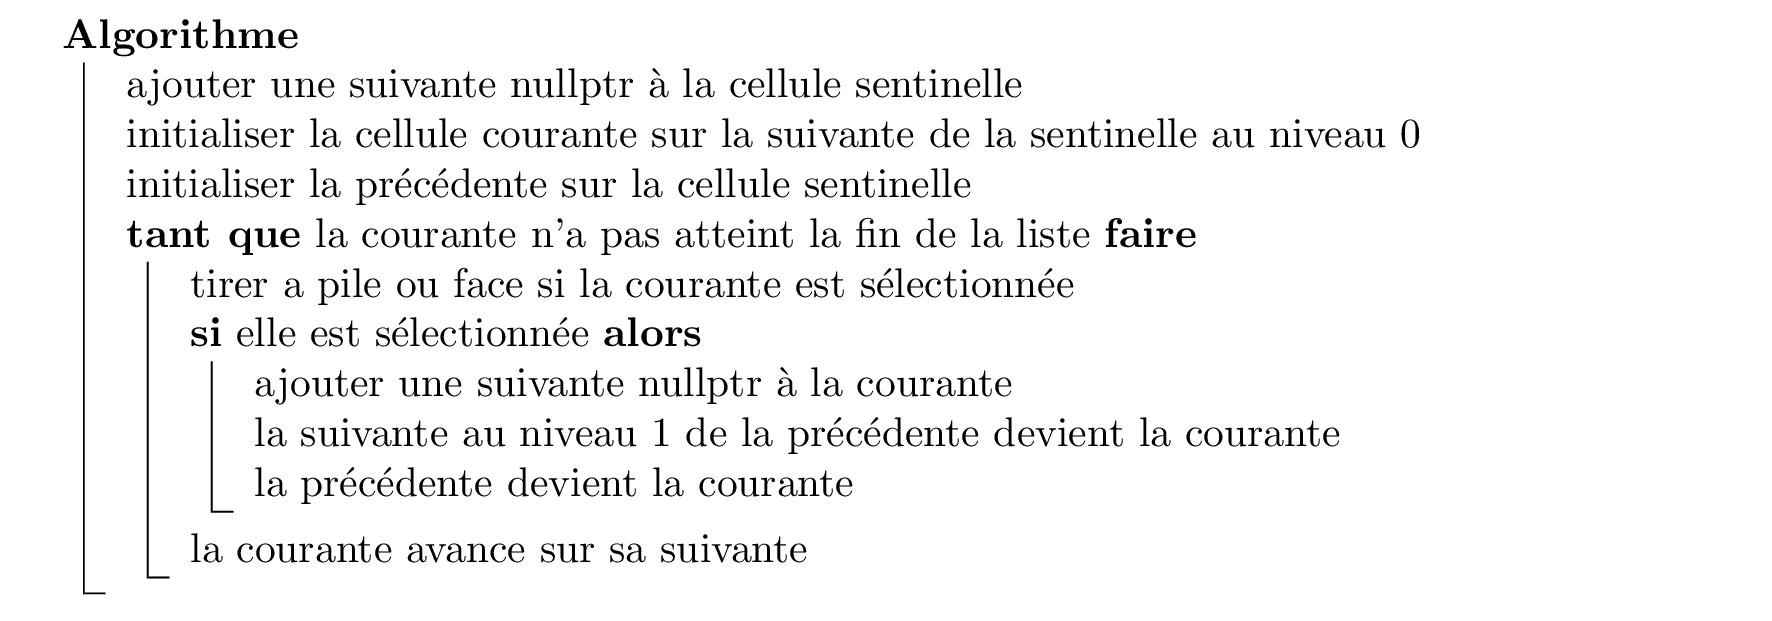
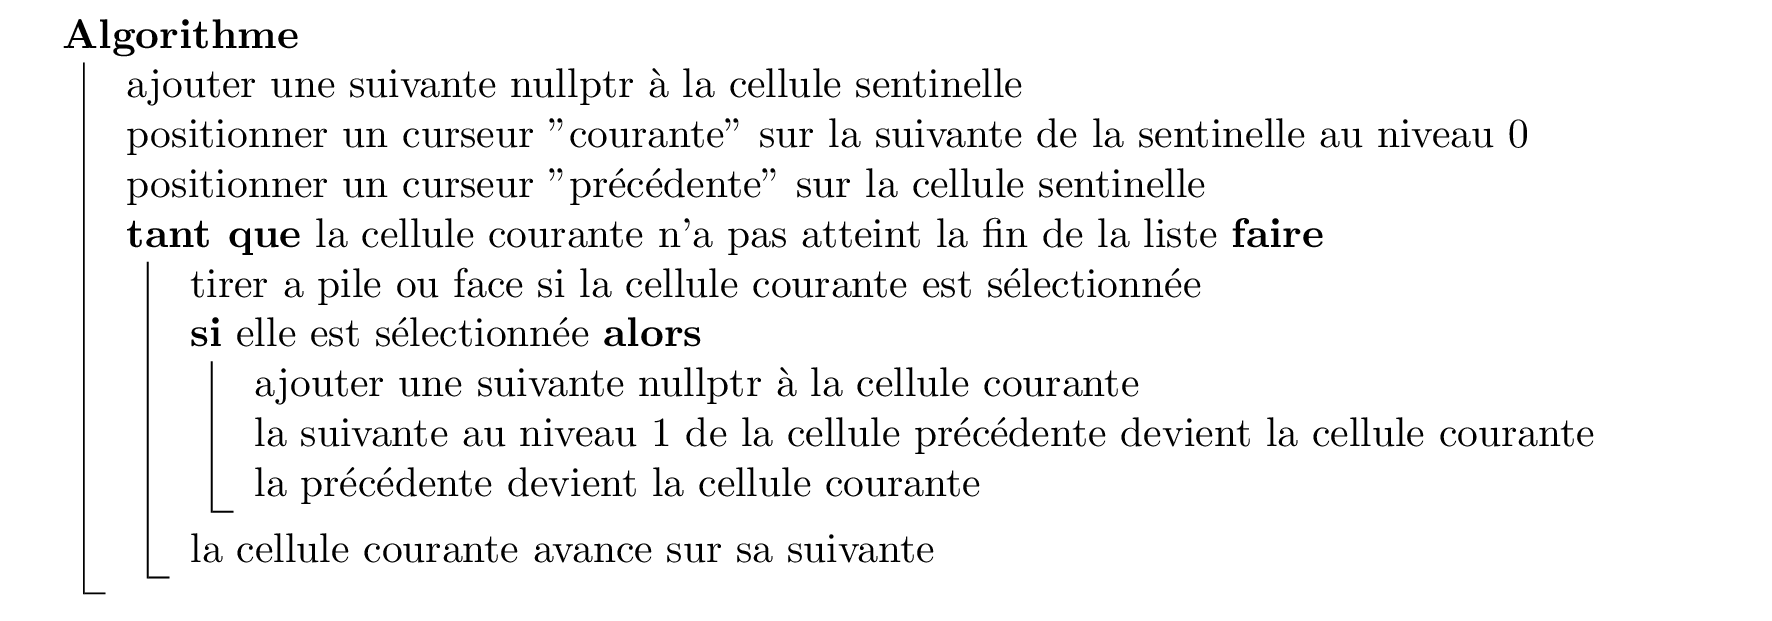
clarified level addition algo

diff --git a/images/algo_ajout_niveau.tex b/images/algo_ajout_niveau.tex
@@ -7,16 +7,16 @@
 
   \Algorithme {
     ajouter une suivante nullptr à la cellule sentinelle \;
-    initialiser la cellule courante sur la suivante de la sentinelle au niveau 0 \;
-    initialiser la précédente sur la cellule sentinelle \;
-    \Tq{la courante n'a pas atteint la fin de la liste} {
-      tirer a pile ou face si la courante est sélectionnée \;
+    positionner un curseur "courante" sur la suivante de la sentinelle au niveau 0 \;
+    positionner un curseur "précédente" sur la cellule sentinelle \;
+    \Tq{la cellule courante n'a pas atteint la fin de la liste} {
+      tirer a pile ou face si la cellule courante est sélectionnée \;
       \Si{elle est sélectionnée} {
-        ajouter une suivante nullptr à la courante \;
-        la suivante au niveau 1 de la précédente devient la courante \;
-        la précédente devient la courante \;
+        ajouter une suivante nullptr à la cellule courante \;
+        la suivante au niveau 1 de la cellule précédente devient la cellule courante \;
+        la précédente devient la cellule courante \;
       }
-      la courante avance sur sa suivante \;
+      la cellule courante avance sur sa suivante \;
     }
   }
 \end{ucblalgo}
